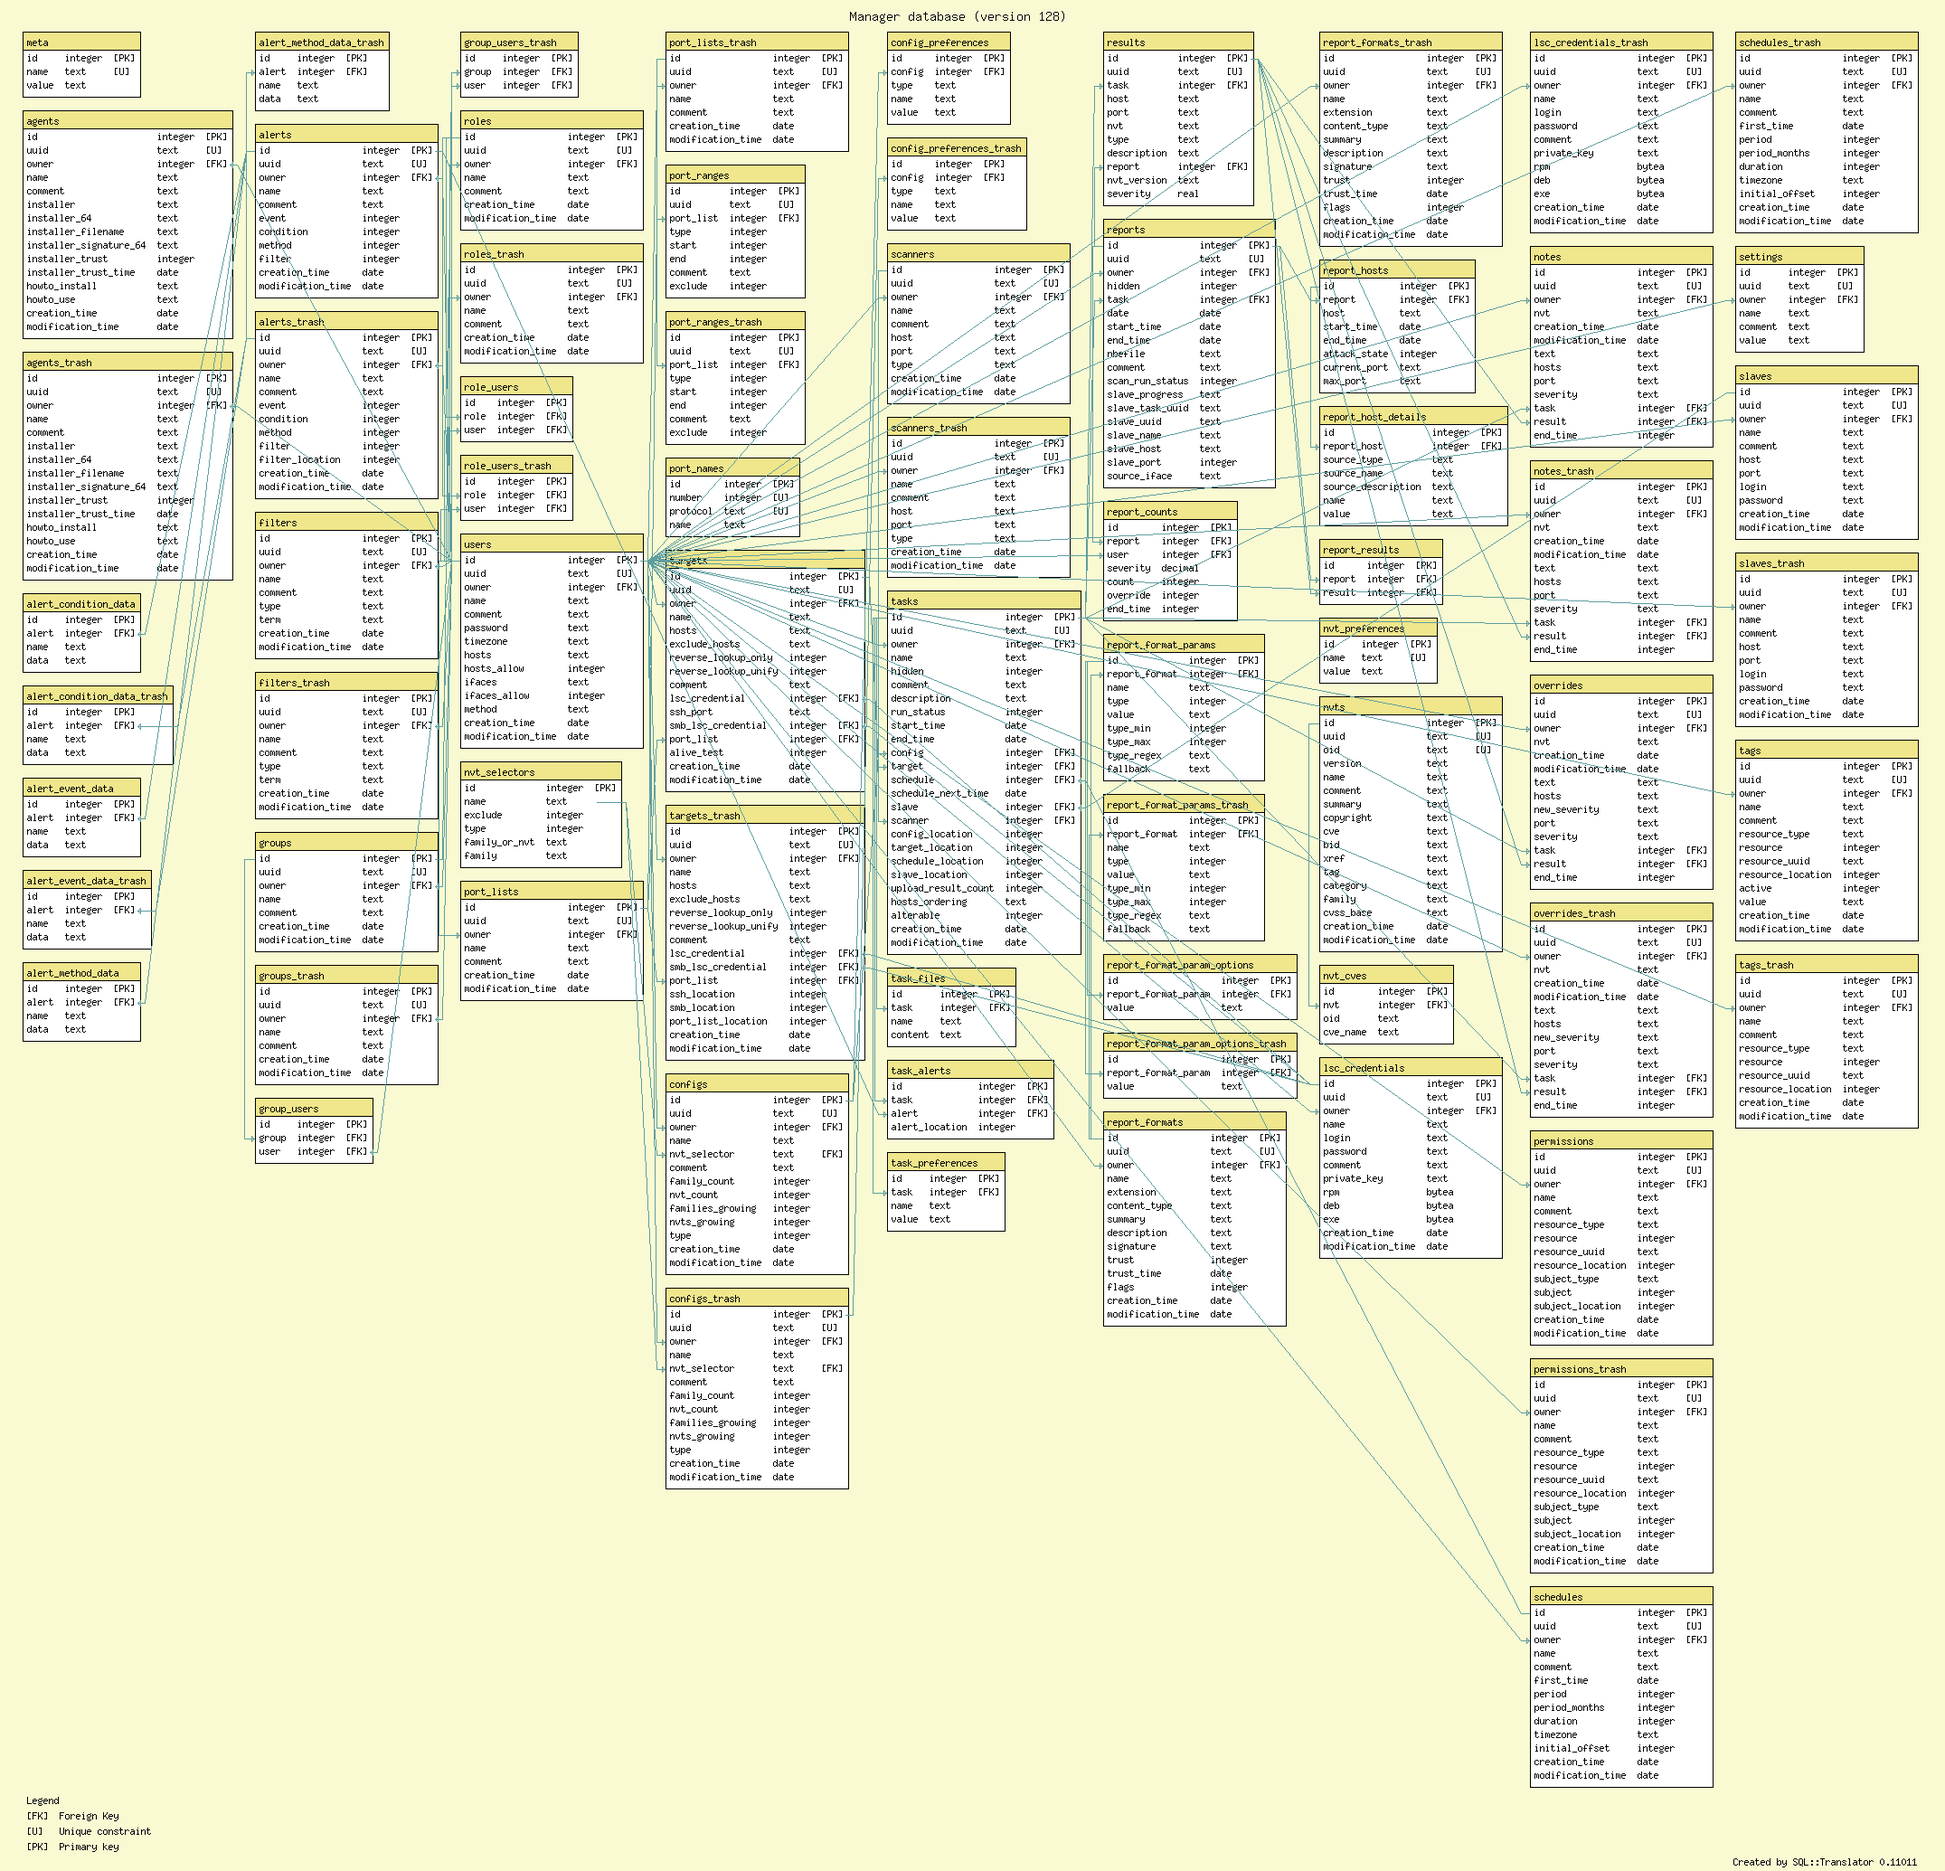
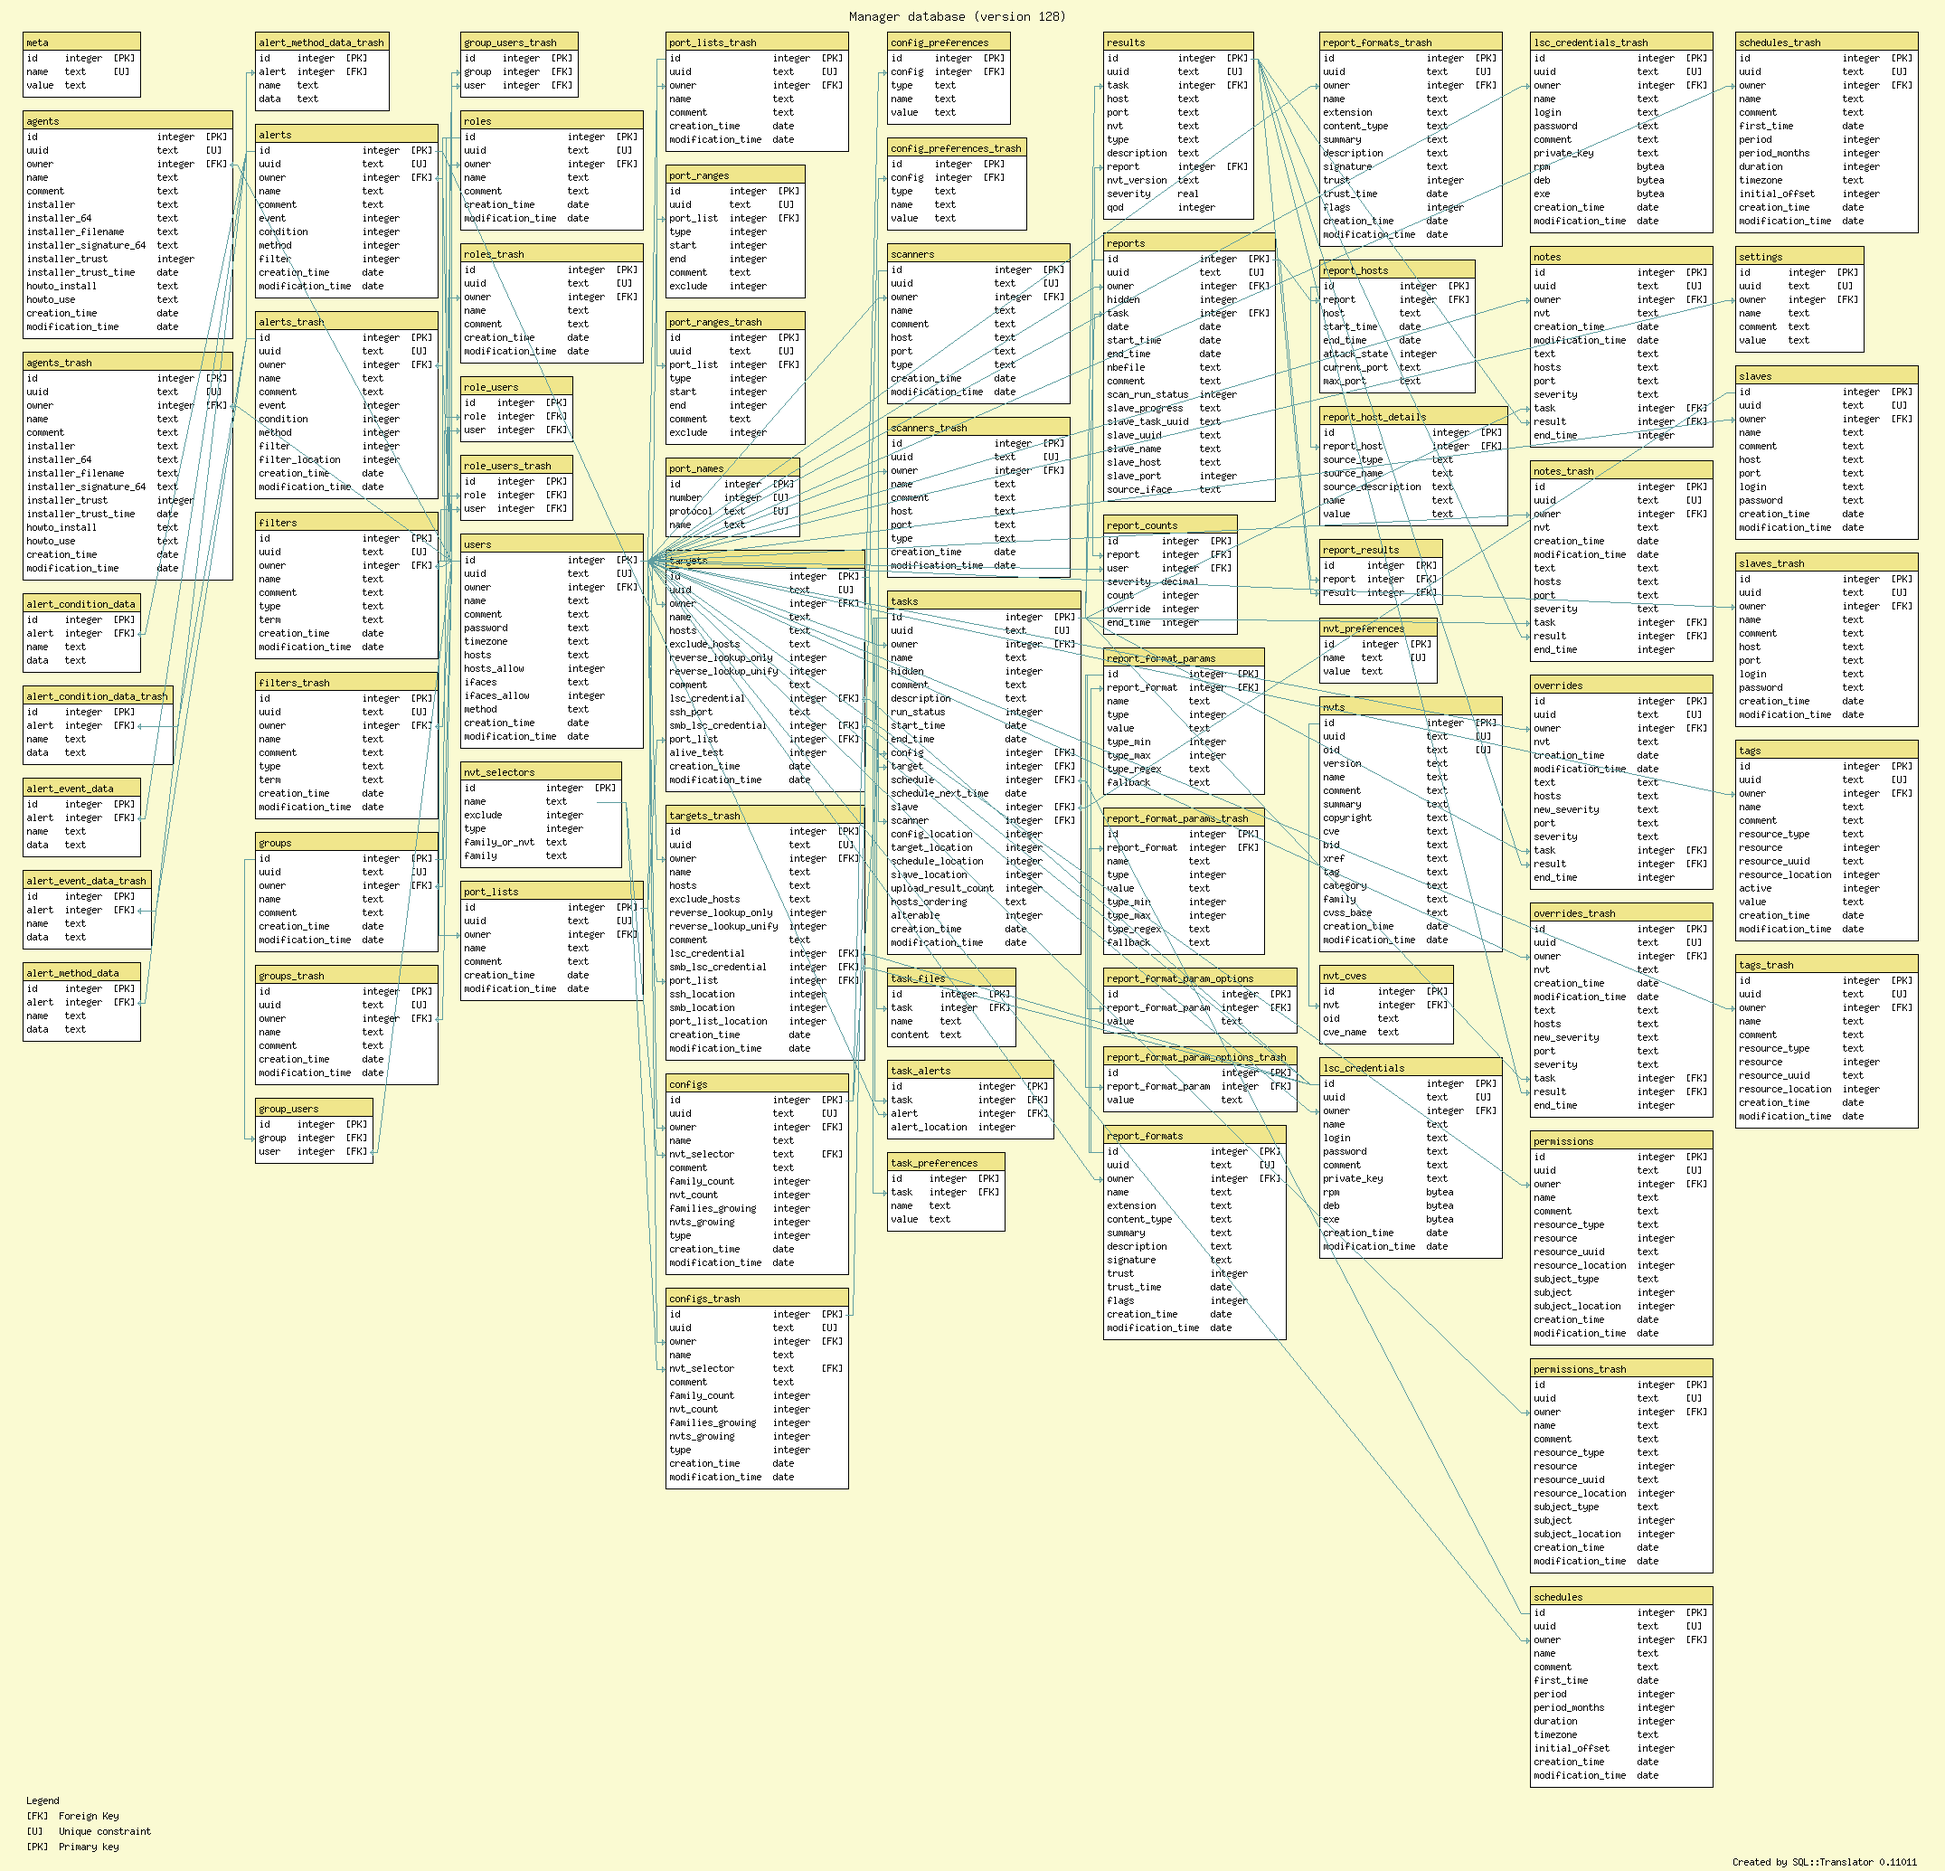
* src/manage_pg.c (create_tables): Add qod to results.
* doc/db_postgres.sql (results): Add qod.

	* doc/db.png: Update from source.

git-svn-id: svn+ssh://scm.wald.intevation.org/openvas/trunk/openvas-manager@19650 423fd1db-d629-0410-8442-d21db03e70f4

diff --git a/src/manage_pg.c b/src/manage_pg.c
@@ -806,7 +806,8 @@ create_tables ()
        "  description text,"
        "  report integer REFERENCES reports (id) ON DELETE RESTRICT,"
        "  nvt_version text,"
-       "  severity real);");
+       "  severity real,"
+       "  qod integer);");
 
   sql ("CREATE TABLE IF NOT EXISTS report_formats"
        " (id SERIAL PRIMARY KEY,"
